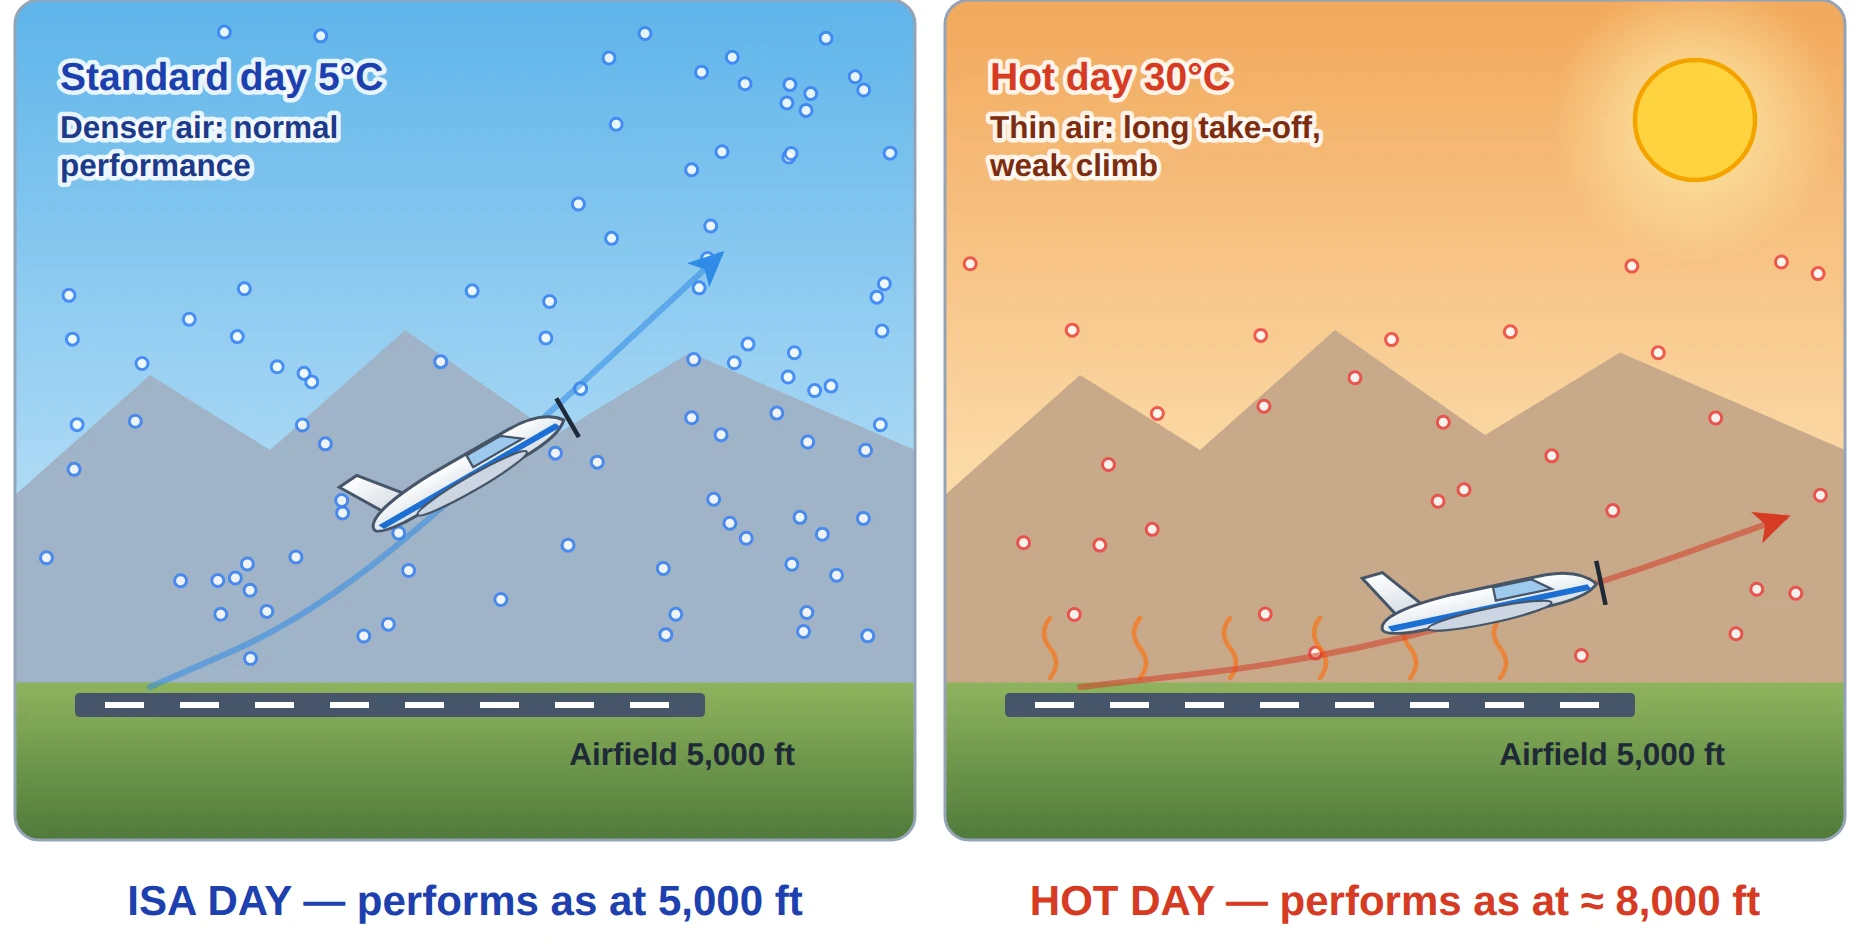
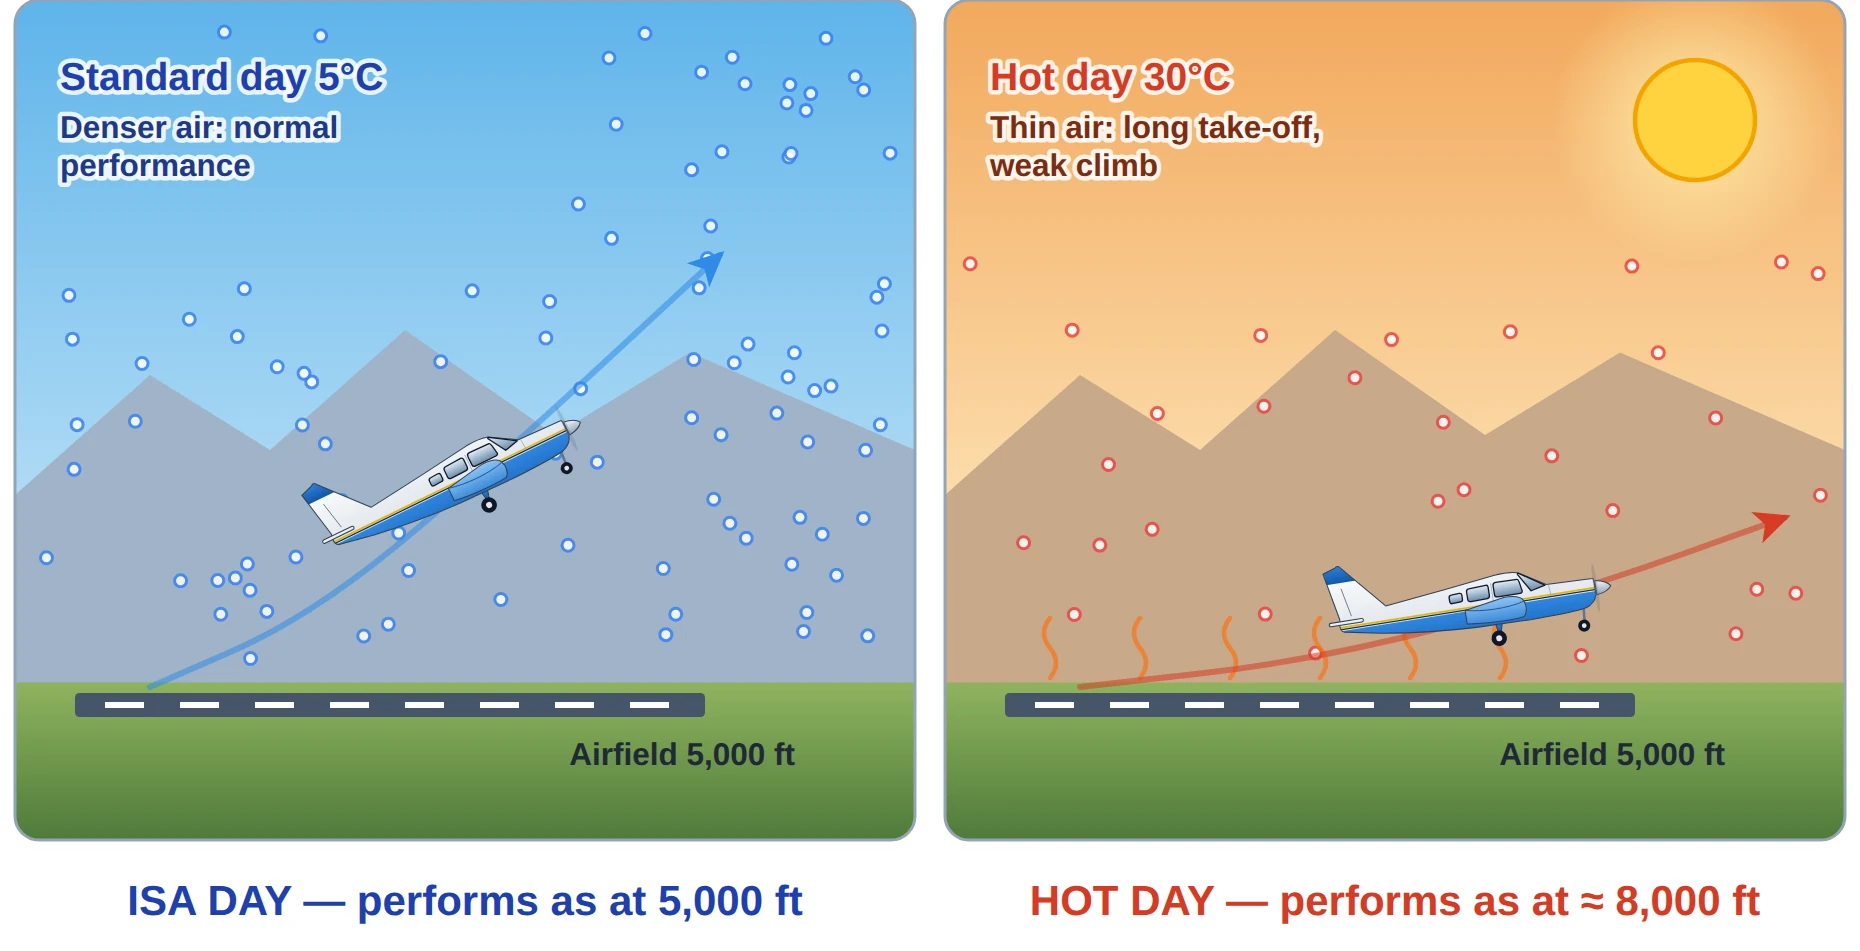
Add a reusable side-view aircraft for explanation illustrations
Low-wing trainer outline measured from the aircraft in the existing
QFE/QNE diagrams and redrawn as clean curves without registration or
school markings. Replaces the hand-drawn plane in the density altitude
and freezing fog drafts.

Claude-Session: https://claude.ai/code/session_01Rrv2AtHbYfafAcVfvxwyxc

Changed region(s): [[0.1559, 0.4269, 0.3118, 0.5794], [0.7172, 0.5794, 0.8731, 0.6709]]

diff --git a/scripts/trial_visuals/aircraft.py b/scripts/trial_visuals/aircraft.py
@@ -1,0 +1,86 @@
+"""Side view of a generic low-wing trainer (PA-28 proportions) for explanation illustrations.
+
+Outline measured from the aircraft in the existing QFE/QNE diagrams, redrawn as clean curves without
+registration or school markings. Local drawing space: nose on the left, about 660 x 250 units.
+Call aircraft_defs() once per SVG, then aircraft(...) for each aircraft.
+"""
+
+BODY = ("M 98,125 L 205,122 L 266,85 C 280,81 300,80 320,82 L 440,97 L 580,113 L 671,9 C 674,4 679,4 682,8 "
+        "L 712,18 L 690,128 L 692,140 C 693,150 690,156 684,158 L 600,174 C 520,186 440,193 380,195 L 250,197 "
+        "C 180,196 140,194 122,190 C 108,185 98,175 95,163 L 95,130 C 95,127 96,125 98,125 Z")
+FIN = "M 580,113 L 671,9 C 674,4 679,4 682,8 L 712,18 L 690,128 Z"
+WINDOWS = [
+    "M 208,123 L 264,87 C 266,86 268,87 267,89 L 242,131 Z",
+    "M 270,100 L 320,99 C 325,99 327,102 327,106 L 327,127 C 327,131 324,133 320,133 L 268,133 "
+    "C 263,133 261,129 263,125 L 266,107 C 267,103 268,100 270,100 Z",
+    "M 344,102 L 384,104 C 388,104 390,107 390,111 L 390,128 C 390,132 387,134 383,134 L 345,133 "
+    "C 341,133 339,130 339,126 L 339,107 C 339,104 341,102 344,102 Z",
+    "M 407,111 L 426,112 C 430,112 432,115 432,118 L 432,127 C 432,130 430,132 427,132 L 407,131 "
+    "C 404,131 402,129 402,126 L 402,116 C 402,113 404,111 407,111 Z",
+]
+WING = ("M 262,152 C 266,140 285,136 305,136 L 400,152 L 400,184 C 360,190 300,192 268,188 "
+        "C 258,180 257,162 262,152 Z")
+
+
+def aircraft_defs():
+    return ('<linearGradient id="ac_body" x1="0" y1="0" x2="0" y2="1"><stop offset="0" stop-color="#ffffff"/>'
+            '<stop offset="1" stop-color="#d9e0e8"/></linearGradient>'
+            '<linearGradient id="ac_blue" x1="0" y1="0" x2="0" y2="1"><stop offset="0" stop-color="#2f86e0"/>'
+            '<stop offset="1" stop-color="#1257a8"/></linearGradient>'
+            '<linearGradient id="ac_glass" x1="0" y1="0" x2="0" y2="1"><stop offset="0" stop-color="#e2edf7"/>'
+            '<stop offset="0.55" stop-color="#9fb8cf"/><stop offset="1" stop-color="#6f8aa6"/></linearGradient>'
+            '<linearGradient id="ac_wing" x1="0" y1="0" x2="0" y2="1"><stop offset="0" stop-color="#8fc4f5"/>'
+            '<stop offset="1" stop-color="#3a8ad8"/></linearGradient>'
+            '<linearGradient id="ac_spinner" x1="0" y1="0" x2="0" y2="1"><stop offset="0" stop-color="#f1f5f9"/>'
+            '<stop offset="1" stop-color="#94a3b8"/></linearGradient>'
+            f'<clipPath id="ac_clip" clipPathUnits="userSpaceOnUse"><path d="{BODY}"/></clipPath>'
+            f'<clipPath id="ac_fin" clipPathUnits="userSpaceOnUse"><path d="{FIN}"/></clipPath>')
+
+
+def _rime():
+    """White rime teeth on the leading edges (spinner, wing, fin), pointing forward (left in local space)."""
+    s = ""
+    for k in range(6):
+        y = 136 + k * 5
+        s += f'<path d="M {60 + abs(k - 2.5) * 6:.1f},{y} l -9,2.5 l 9,2.5 z" fill="#ffffff" stroke="#60a5fa" stroke-width="1.2"/>'
+    for k in range(6):
+        y = 152 + k * 6
+        s += f'<path d="M {260 - (2 if 0 < k < 5 else 0)},{y} l -10,3 l 10,3 z" fill="#ffffff" stroke="#60a5fa" stroke-width="1.2"/>'
+    for k in range(8):
+        f = k / 8
+        x, y = 580 + 91 * f, 113 - 104 * f
+        s += f'<path d="M {x:.1f},{y:.1f} l -9,-4 l 4,9 z" fill="#ffffff" stroke="#60a5fa" stroke-width="1.2"/>'
+    return s
+
+
+def aircraft(x, y, width=160, pitch=0, nose_right=True, rime=False, prop=True):
+    """Aircraft centred on (x, y), `width` canvas units long, nose-up `pitch` degrees."""
+    k = width / 660
+    sx = -k if nose_right else k
+    rot = -pitch if nose_right else pitch
+    stroke = 'stroke="#334155" stroke-width="2.4" stroke-linejoin="round"'
+    s = f'<g transform="translate({x:.1f},{y:.1f}) rotate({rot}) scale({sx:.4f},{k:.4f}) translate(-385,-130)">'
+    # landing gear behind the body
+    s += f'<path d="M 128,190 L 131,226" stroke="#64748b" stroke-width="6" fill="none"/>'
+    s += '<circle cx="133" cy="230" r="14" fill="#111827"/><circle cx="133" cy="230" r="5.5" fill="#e5e7eb"/>'
+    s += f'<path d="M 318,188 L 336,188 L 331,218 L 326,218 Z" fill="url(#ac_blue)" {stroke}/>'
+    s += '<circle cx="332" cy="228" r="18" fill="#111827"/><circle cx="332" cy="228" r="7" fill="#e5e7eb"/>'
+    # fuselage: white top, stripes, blue lower half, blue fin tip
+    s += f'<path d="{BODY}" fill="url(#ac_body)"/>'
+    s += ('<g clip-path="url(#ac_clip)"><rect x="0" y="155" width="760" height="100" fill="url(#ac_blue)"/>'
+          '<rect x="0" y="145" width="760" height="4" fill="#e3b505"/><rect x="0" y="150" width="760" height="3" fill="#0f2f5c"/></g>')
+    s += '<g clip-path="url(#ac_fin)"><rect x="560" y="0" width="200" height="44" fill="url(#ac_blue)"/></g>'
+    s += f'<path d="{BODY}" fill="none" {stroke}/>'
+    s += f'<path d="M 676,58 L 662,124" fill="none" stroke="#64748b" stroke-width="2"/>'  # rudder hinge
+    s += f'<path d="M 200,123 L 198,150 M 332,99 L 332,190" fill="none" stroke="#94a3b8" stroke-width="1.6"/>'  # cowl, door
+    s += f'<rect x="636" y="133" width="80" height="8" rx="4" fill="url(#ac_body)" {stroke}/>'  # tailplane
+    for w in WINDOWS:
+        s += f'<path d="{w}" fill="url(#ac_glass)" stroke="#111827" stroke-width="3" stroke-linejoin="round"/>'
+    s += f'<path d="{WING}" fill="url(#ac_wing)" {stroke}/>'
+    s += '<path d="M 262,152 C 300,163 360,162 400,152" fill="none" stroke="#1e4f8f" stroke-width="2"/>'
+    s += f'<path d="M 93,131 C 76,133 63,140 58,148 C 63,156 76,162 93,164 Z" fill="url(#ac_spinner)" {stroke}/>'
+    if prop:
+        s += '<ellipse cx="93" cy="147" rx="5" ry="58" fill="#64748b" fill-opacity="0.28"/>'
+    if rime:
+        s += _rime()
+    return s + "</g>\n"

diff --git a/scripts/trial_visuals/met_illustrated.py b/scripts/trial_visuals/met_illustrated.py
@@ -3,6 +3,7 @@ shaded sky and terrain, metallic instruments, plain labels on the picture rather
 """
 import math
 
+from aircraft import aircraft, aircraft_defs
 from common import Registry
 from kit import INK, MUTED, circle, line, path, t, template
 
@@ -189,26 +190,6 @@ def molecules(ox, rnd, n, box, avoid=(), r=4.5, color="#ffffff", stroke="#3b82f6
     return s
 
 
-def plane(x, y, s=1.0, pitch=0, rime=False):
-    """Light low-wing aircraft, side view, nose right, white with a blue stripe."""
-    body = ("M -70,0 C -70,-8 -50,-12 -20,-13 L 40,-13 C 58,-13 70,-8 76,0 C 70,6 58,8 40,8 L -50,6 "
-            "C -62,5 -70,3 -70,0 Z")
-    return (f'<g transform="translate({x:.1f},{y:.1f}) rotate({-pitch}) scale({s})">'
-            f'<path d="M -58,-6 L -76,-36 L -62,-37 L -40,-10 Z" fill="url(#hull)" stroke="#475569" stroke-width="2"/>'
-            f'<path d="{body}" fill="url(#hull)" stroke="#475569" stroke-width="2"/>'
-            f'<path d="M -66,-1 L 70,-1 L 72,3 L -64,3 Z" fill="#1d6fd6"/>'
-            f'<path d="M 8,-12 L 34,-12 L 46,-3 L 8,-3 Z" fill="#9cc9ee" stroke="#475569" stroke-width="1.5"/>'
-            f'<ellipse cx="2" cy="6" rx="42" ry="5" fill="#cbd5e1" stroke="#475569" stroke-width="1.5"/>'
-            f'<line x1="79" y1="-15" x2="79" y2="15" stroke="#1f2937" stroke-width="3"/>'
-            + (RIME if rime else "") + '</g>')
-
-
-RIME = ("".join(f'<path d="M {74 + 2 * abs(k)},{k * 4 - 2} l 7,2 l -7,2 z" fill="#ffffff" stroke="#60a5fa" stroke-width="0.8"/>'
-                for k in range(-3, 3))
-        + "".join(f'<path d="M {-60 - k * 3.2:.1f},{-8 - k * 5.4:.1f} l -1,-6 l 6,1 z" fill="#ffffff" stroke="#60a5fa" '
-                  f'stroke-width="0.8"/>' for k in range(5)))
-
-
 COMMON = (
     lg("sky_day", [(0, "#5fb4ea"), (1, "#e6f5fd")]),
     lg("sky_hot", [(0, "#f2a85c"), (0.55, "#fbd9a6"), (1, "#fff3dd")]),
@@ -227,6 +208,7 @@ COMMON = (
     arrowhead_marker("head_red", RED), arrowhead_marker("head_blue", BLUE), arrowhead_marker("head_ice", ICE),
     arrowhead_marker("head_gold", "#e08a00"),
     '<filter id="soft" x="-30%" y="-30%" width="160%" height="160%"><feGaussianBlur stdDeviation="14"/></filter>',
+    aircraft_defs(),
 )
 
 
@@ -351,11 +333,11 @@ def airfield_panel(ox, hot):
     if hot:
         pts = [(ox + 90, 458), (ox + 250, 440), (ox + 420, 395), (ox + 560, 345)]
         s += flow(pts, RED, "head_red", 4, 0.55)
-        s += plane(ox + 360, 405, 1.0, 12)
+        s += aircraft(ox + 350, 400, 190, 9)
     else:
         pts = [(ox + 90, 458), (ox + 200, 410), (ox + 330, 300), (ox + 470, 170)]
         s += flow(pts, BLUE, "head_blue", 4, 0.55)
-        s += plane(ox + 300, 318, 1.0, 30)
+        s += aircraft(ox + 290, 318, 190, 26)
     s += label(ox + 520, 510, "Airfield 5,000 ft", 21, 700, "#1f2937", "end", halo=False)
     if hot:
         s += label(ox + 30, 60, "Hot day 30°C", 26, 700, RED, "start")
@@ -517,9 +499,7 @@ def _():
         s += "".join(f'<path d="M {x},{386 + j * 11} l -10,5 l 10,5 z" fill="#ffffff" stroke="#60a5fa" stroke-width="1"/>'
                      for j in range(6))
     s += line(560, 398, 820, 398, "#5b4a38", 4) + line(560, 430, 820, 430, "#5b4a38", 4)
-    s += plane(1030, 452, 1.5, 0, rime=True)
-    s += line(942, 466, 942, 490, "#1f2937", 3) + line(1060, 466, 1060, 490, "#1f2937", 3)
-    s += circle(942, 494, 7, "#1f2937", "none", 0) + circle(1060, 494, 7, "#1f2937", "none", 0)
+    s += aircraft(1030, 440, 300, 0, rime=True)
     s += f'<rect x="10" y="470" width="{W}" height="90" fill="#ffffff" opacity="0.25" filter="url(#soft)"/>'
     # magnifier showing liquid droplets
     mx, my, mr = 270, 230, 140
